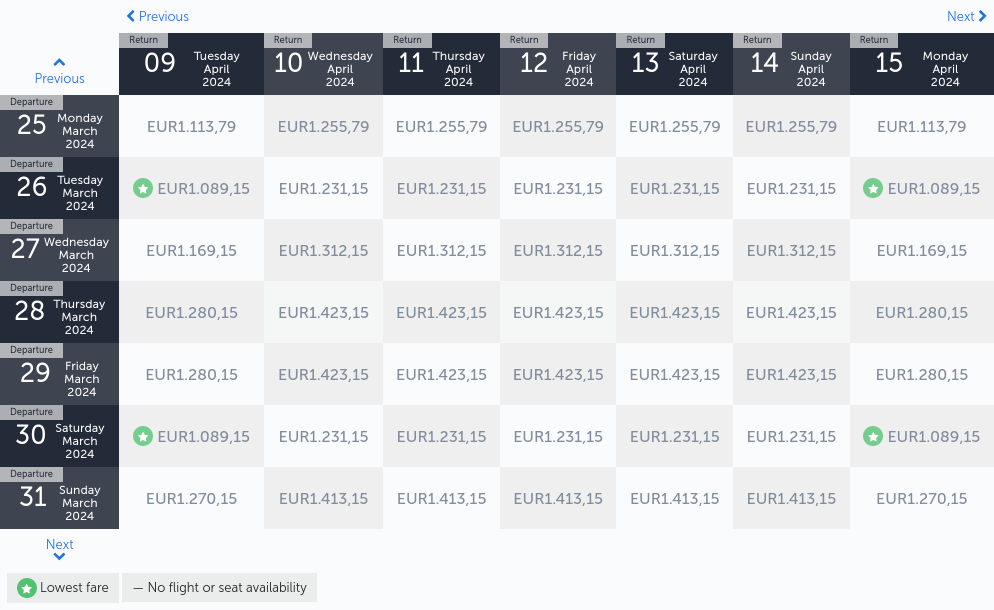
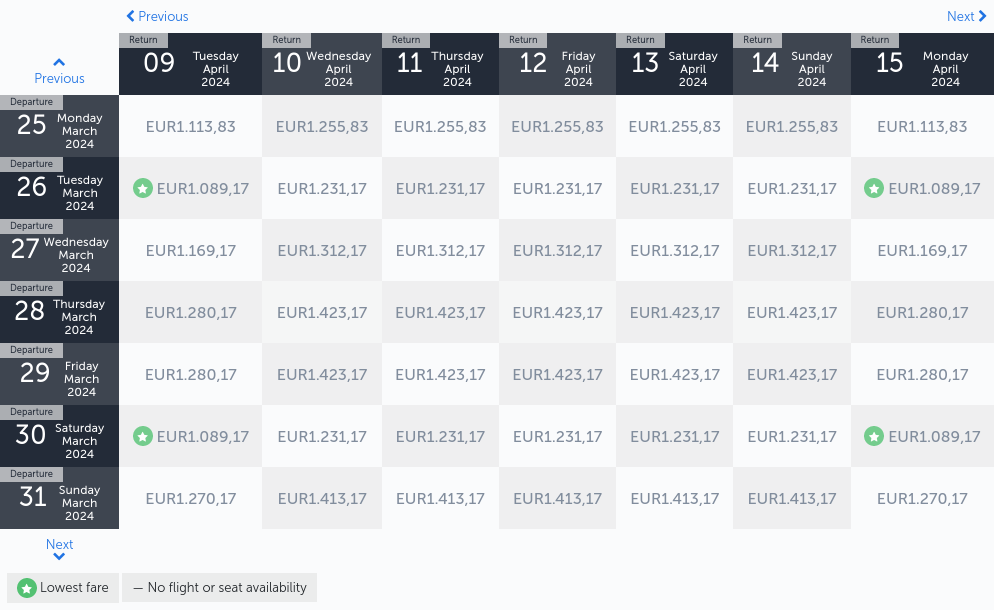
Latest scraping taiwan: Wed Jul  5 22:41:32 UTC 2023

diff --git a/scrapes/taiwan/turkish-airlines.md b/scrapes/taiwan/turkish-airlines.md
@@ -2,13 +2,13 @@
 | --- | --- |     |     |     |     |     |     | --- | --- | --- | --- | --- | --- |
 | Previous | Return<br><br>09 Tuesday April 2024 | Return<br><br>10 Wednesday April 2024 | Return<br><br>11 Thursday April 2024 | Return<br><br>12 Friday April 2024 | Return<br><br>13 Saturday April 2024 | Return<br><br>14 Sunday April 2024 | Return<br><br>15 Monday April 2024 |
 | --- | --- | --- | --- | --- | --- | --- | --- |
-| Departure<br><br>25 Monday March 2024 | 1.113,79 | 1.255,79 | 1.255,79 | 1.255,79 | 1.255,79 | 1.255,79 | 1.113,79 |
-| Departure<br><br>26 Tuesday March 2024 | 1.089,15 | 1.231,15 | 1.231,15 | 1.231,15 | 1.231,15 | 1.231,15 | 1.089,15 |
-| Departure<br><br>27 Wednesday March 2024 | 1.169,15 | 1.312,15 | 1.312,15 | 1.312,15 | 1.312,15 | 1.312,15 | 1.169,15 |
-| Departure<br><br>28 Thursday March 2024 | 1.280,15 | 1.423,15 | 1.423,15 | 1.423,15 | 1.423,15 | 1.423,15 | 1.280,15 |
-| Departure<br><br>29 Friday March 2024 | 1.280,15 | 1.423,15 | 1.423,15 | 1.423,15 | 1.423,15 | 1.423,15 | 1.280,15 |
-| Departure<br><br>30 Saturday March 2024 | 1.089,15 | 1.231,15 | 1.231,15 | 1.231,15 | 1.231,15 | 1.231,15 | 1.089,15 |
-| Departure<br><br>31 Sunday March 2024 | 1.270,15 | 1.413,15 | 1.413,15 | 1.413,15 | 1.413,15 | 1.413,15 | 1.270,15 |
+| Departure<br><br>25 Monday March 2024 | 1.113,83 | 1.255,83 | 1.255,83 | 1.255,83 | 1.255,83 | 1.255,83 | 1.113,83 |
+| Departure<br><br>26 Tuesday March 2024 | 1.089,17 | 1.231,17 | 1.231,17 | 1.231,17 | 1.231,17 | 1.231,17 | 1.089,17 |
+| Departure<br><br>27 Wednesday March 2024 | 1.169,17 | 1.312,17 | 1.312,17 | 1.312,17 | 1.312,17 | 1.312,17 | 1.169,17 |
+| Departure<br><br>28 Thursday March 2024 | 1.280,17 | 1.423,17 | 1.423,17 | 1.423,17 | 1.423,17 | 1.423,17 | 1.280,17 |
+| Departure<br><br>29 Friday March 2024 | 1.280,17 | 1.423,17 | 1.423,17 | 1.423,17 | 1.423,17 | 1.423,17 | 1.280,17 |
+| Departure<br><br>30 Saturday March 2024 | 1.089,17 | 1.231,17 | 1.231,17 | 1.231,17 | 1.231,17 | 1.231,17 | 1.089,17 |
+| Departure<br><br>31 Sunday March 2024 | 1.270,17 | 1.413,17 | 1.413,17 | 1.413,17 | 1.413,17 | 1.413,17 | 1.270,17 |
 | Next |
 | Lowest fare — No flight or seat availability |     |     |     |     |     |     |     |
 
